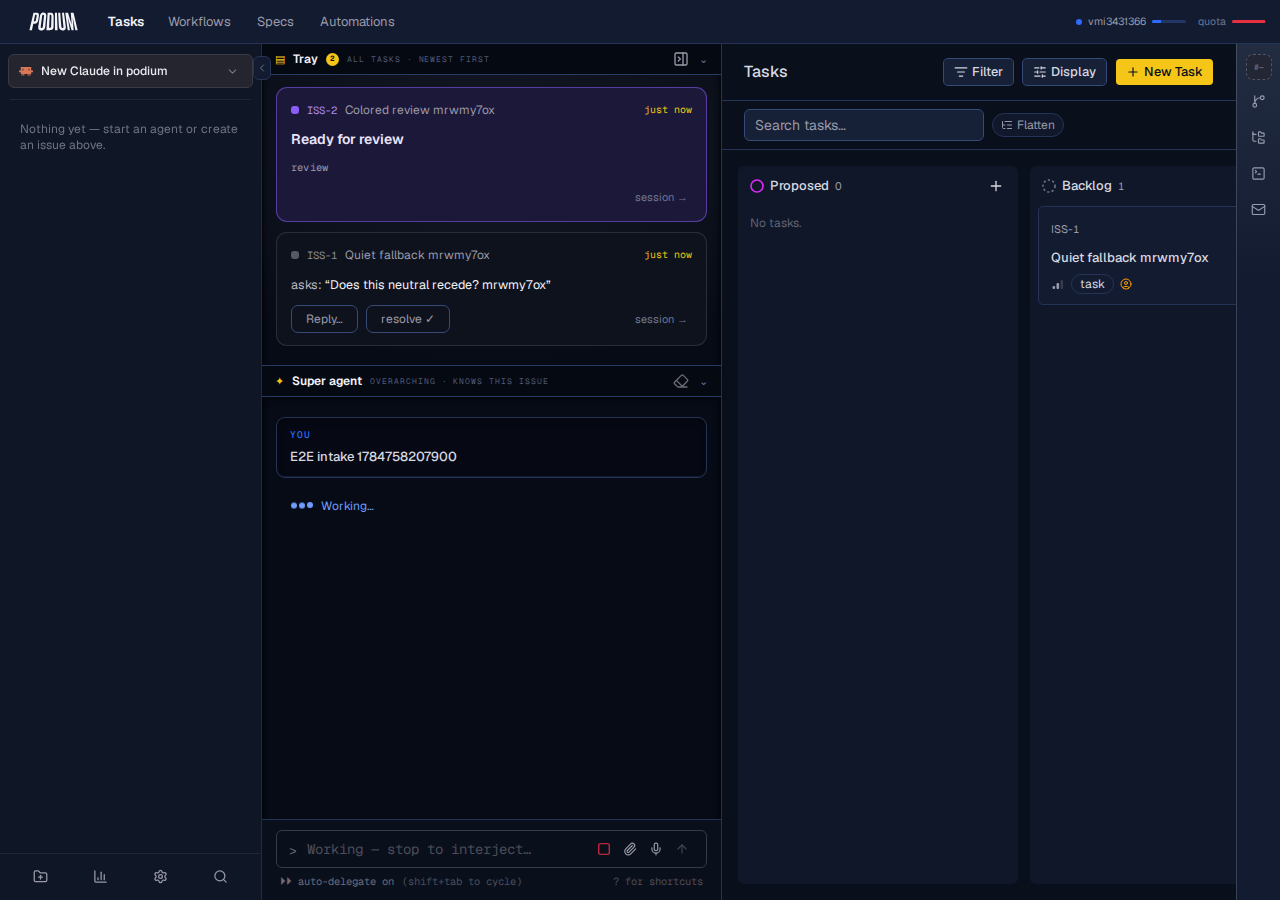
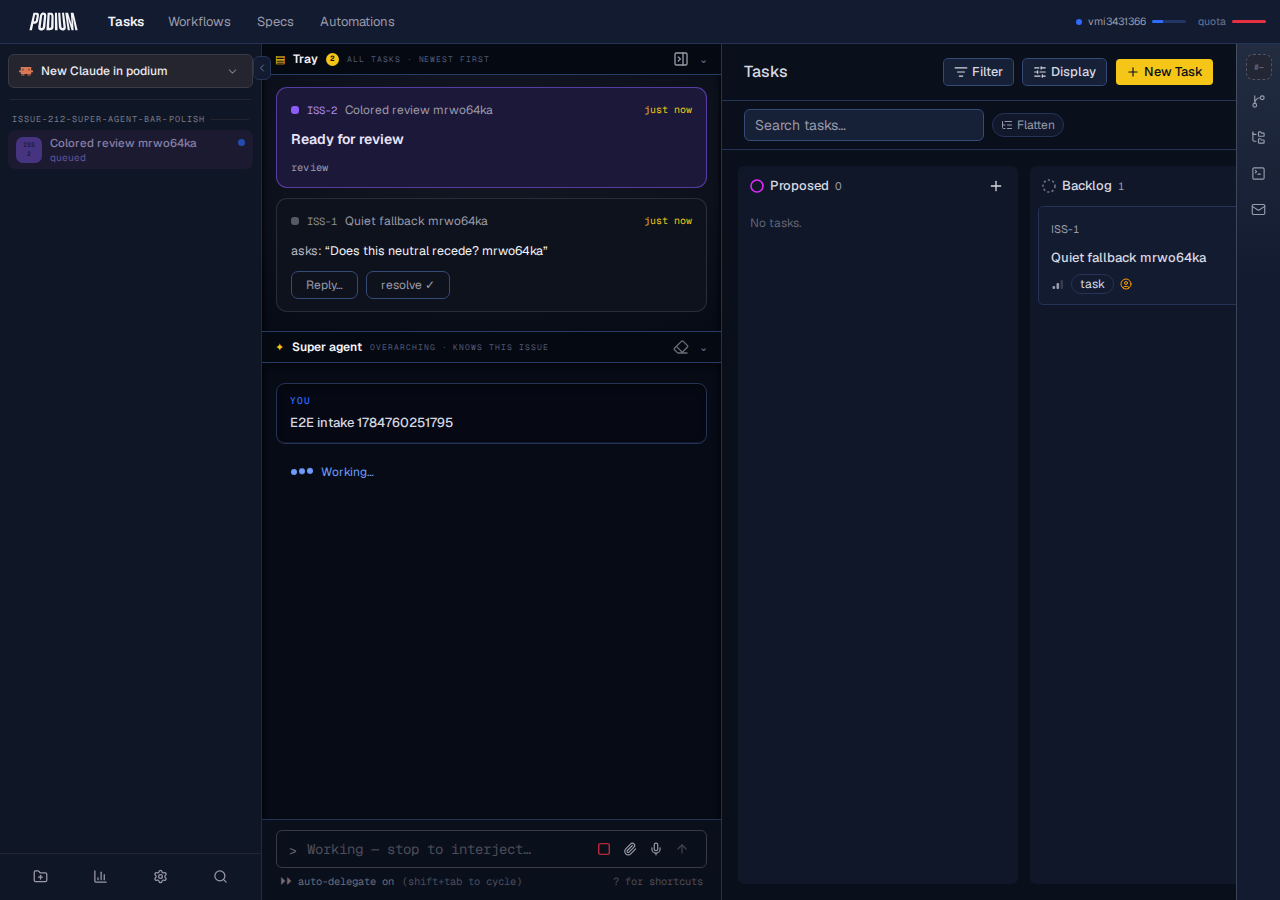
polish(web): remove redundant tray session link
Keep card-click navigation while leaving only meaningful tray actions visible.\n\nPodium-Issue: POD-212

diff --git a/apps/web/src/features/superagent/TrayCard.tsx b/apps/web/src/features/superagent/TrayCard.tsx
@@ -15,7 +15,7 @@ const TRAY_NEUTRAL = '#565965'
 export interface TrayActions {
   /** Reply…: focus the chat composer with the question as context. */
   onDiscuss: (item: TrayItem) => void
-  /** Card click / session →: open the item's agent session in the native pane. */
+  /** Card click: open the item's agent session in the native pane. */
   onOpenSession: (item: TrayItem) => void
   /** Quiet dismiss for a question (issues.clearNeedsHuman — answers ride the
    *  composer until #53 gives the web a real answer path). */
@@ -107,22 +107,6 @@ function PrimaryButton({
   )
 }
 
-function SessionLink({ item, actions }: { item: TrayItem; actions: TrayActions }): JSX.Element {
-  return (
-    <button
-      type="button"
-      data-testid="tray-session-link"
-      className="ml-auto inline-flex min-h-6 flex-none cursor-pointer items-center whitespace-nowrap rounded-sm border-0 bg-transparent px-1 py-0 text-[11px] leading-5 text-text-dim hover:text-muted-foreground focus-visible:outline-none focus-visible:ring-2 focus-visible:ring-(--issue)"
-      onClick={(e) => {
-        e.stopPropagation()
-        actions.onOpenSession(item)
-      }}
-    >
-      session →
-    </button>
-  )
-}
-
 /**
  * One human-actionable tray card (engraved-column.md §2.3-v3): an agent's
  * action offer with its dynamic buttons [spec:SP-c7f1], a question with
@@ -189,7 +173,7 @@ export function TrayCard({
 
   return (
     // biome-ignore lint/a11y/noStaticElementInteractions: the whole card is a shortcut to its session; the inner buttons stay the accessible path
-    // biome-ignore lint/a11y/useKeyWithClickEvents: keyboard users reach the same session via its sidebar row or the session → button
+    // biome-ignore lint/a11y/useKeyWithClickEvents: keyboard users reach the same session via its sidebar row; the card click is a pointer shortcut around its explicit actions
     <div
       data-testid={`tray-card-${item.kind}`}
       data-issue-seq={issue.seq}
@@ -352,7 +336,6 @@ export function TrayCard({
                   </button>
                 ),
               )}
-              <SessionLink item={item} actions={actions} />
             </div>
           </>
         )
@@ -368,9 +351,6 @@ export function TrayCard({
             Ready for review
           </div>
           <StateLine issue={issue} />
-          <div className={cn('flex min-w-0 items-center', arrived && 'morph-tick-in')}>
-            <SessionLink item={item} actions={actions} />
-          </div>
         </>
       ) : (
         <>
@@ -406,7 +386,6 @@ export function TrayCard({
             >
               resolve ✓
             </button>
-            <SessionLink item={item} actions={actions} />
           </div>
         </>
       )}

diff --git a/apps/web/src/features/superagent/SuperagentView.test.tsx b/apps/web/src/features/superagent/SuperagentView.test.tsx
@@ -271,7 +271,7 @@ describe('tray filtering (human-actionable only)', () => {
     expect(container.querySelector('[data-testid="tray-card-offer"]')).toBeNull()
   })
 
-  it('the session → link opens the offer session without firing the action', async () => {
+  it('opens the offer session from the card without rendering a redundant session link', async () => {
     storeIssues = [
       makeIssue({
         id: 'o',
@@ -294,10 +294,12 @@ describe('tray filtering (human-actionable only)', () => {
       }),
     ]
     await mount()
-    const link = container.querySelector<HTMLButtonElement>('[data-testid="tray-session-link"]')
-    expect(link).not.toBeNull()
+    const card = container.querySelector<HTMLElement>('[data-testid="tray-card-offer"]')
+    expect(card).not.toBeNull()
+    expect(container.querySelector('[data-testid="tray-session-link"]')).toBeNull()
+    expect(card?.textContent).not.toContain('session →')
     await act(async () => {
-      link?.click()
+      card?.click()
     })
     expect(fakeTrpc.sessions.sendText.mutate).not.toHaveBeenCalled()
     expect(setPane).toHaveBeenCalledWith('A', 'agent-1')

diff --git a/tests/e2e/browser/concierge.browser.e2e.ts b/tests/e2e/browser/concierge.browser.e2e.ts
@@ -86,6 +86,7 @@ test('super agent chat: the first message fires sendTurn on the global thread', 
   )
   await expect(quietCard).toBeVisible({ timeout: 20_000 })
   await expect(coloredCard).toBeVisible({ timeout: 20_000 })
+  await expect(page.getByTestId('tray-session-link')).toHaveCount(0)
   await expect(quietCard).toHaveAttribute('data-issue-colored', 'false')
   await expect(coloredCard).toHaveAttribute('data-issue-colored', 'true')
   expect(